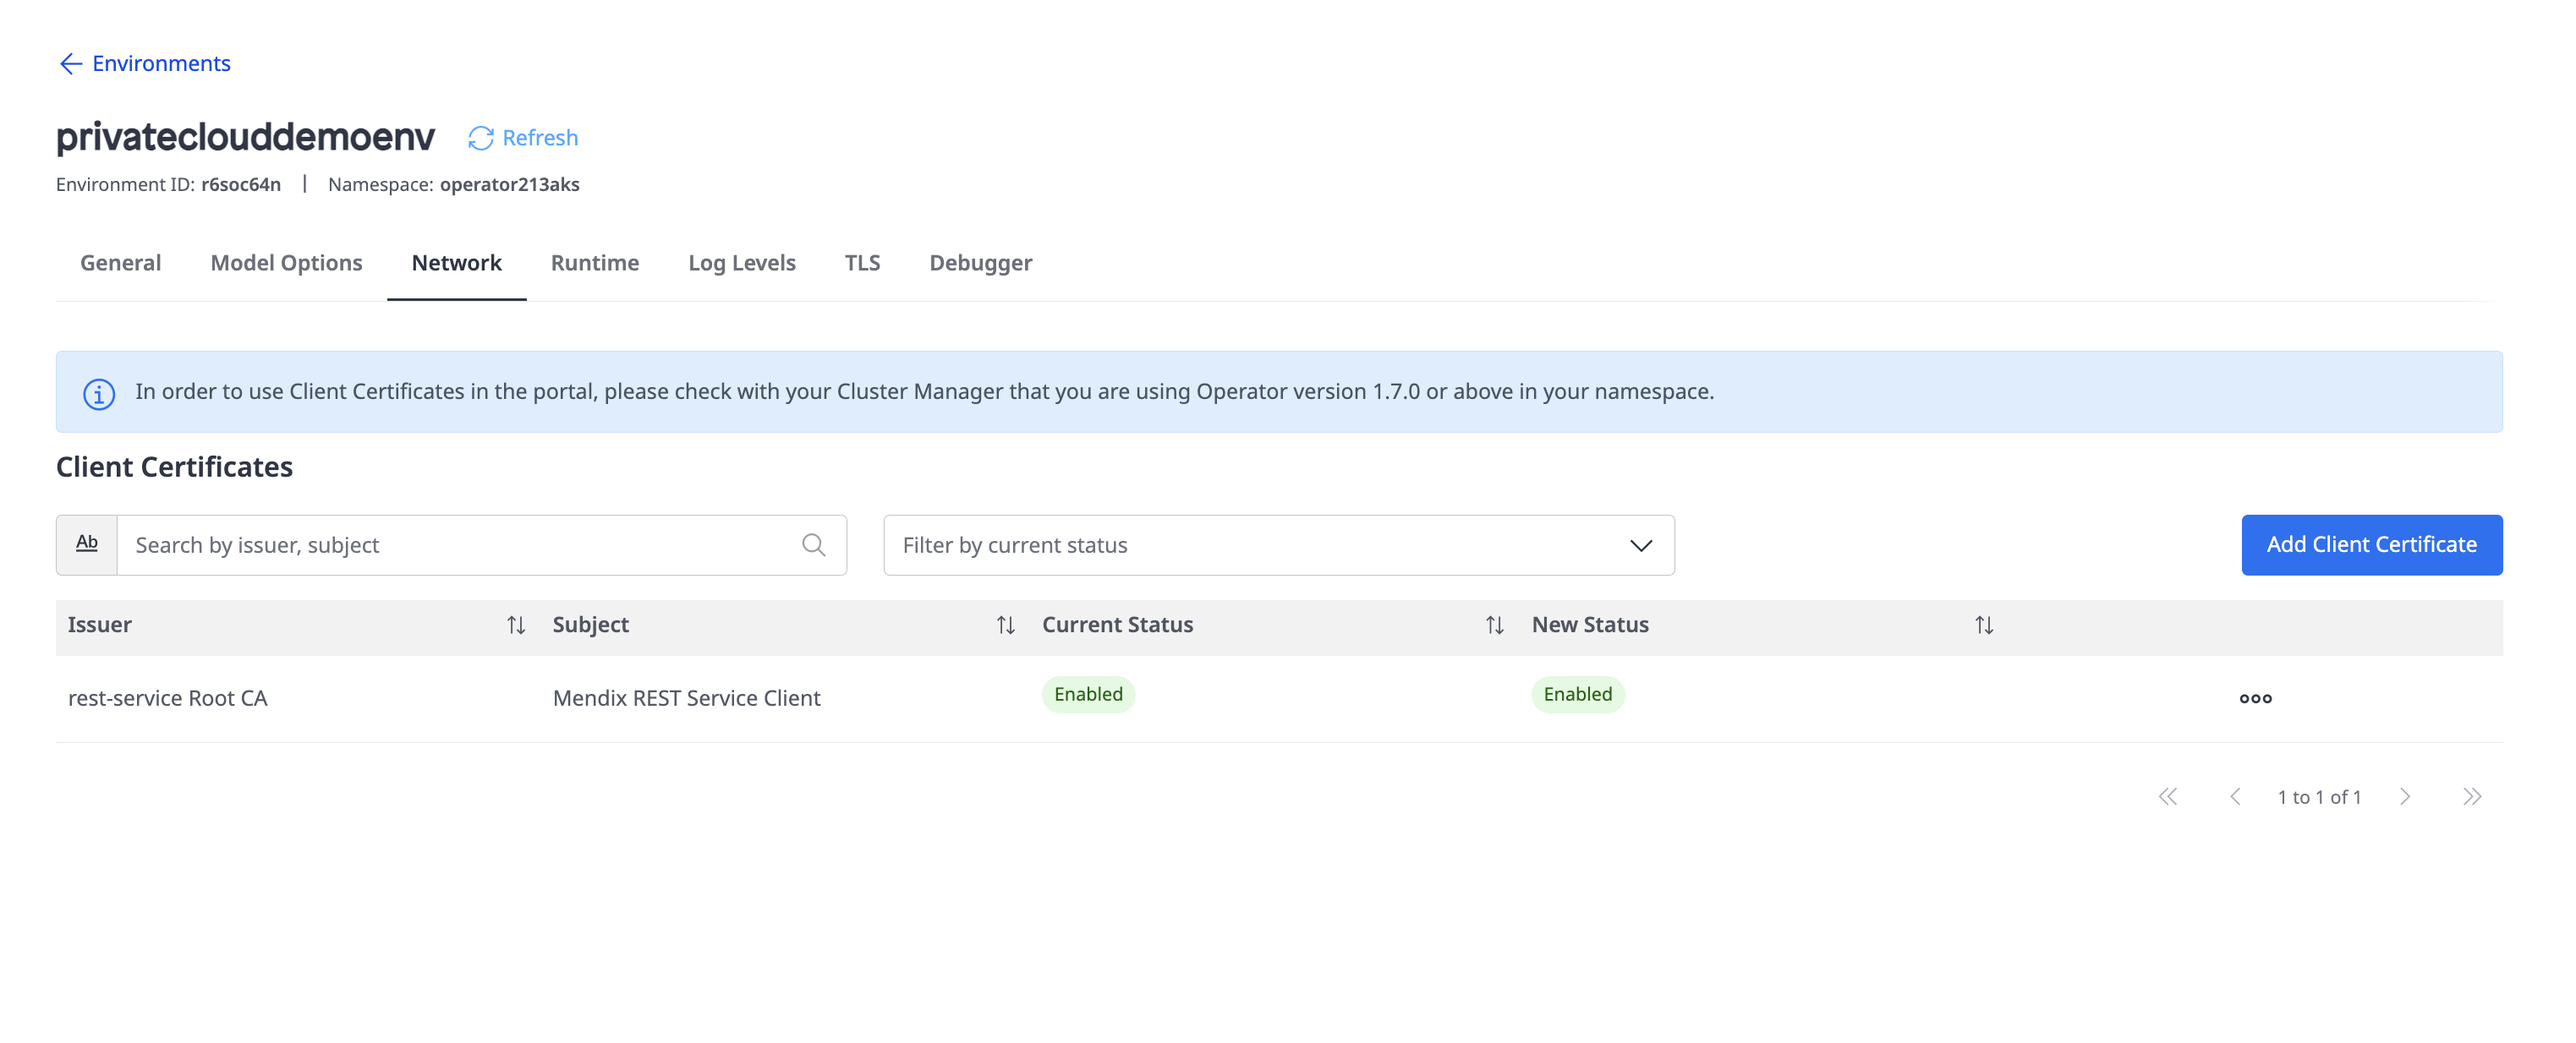
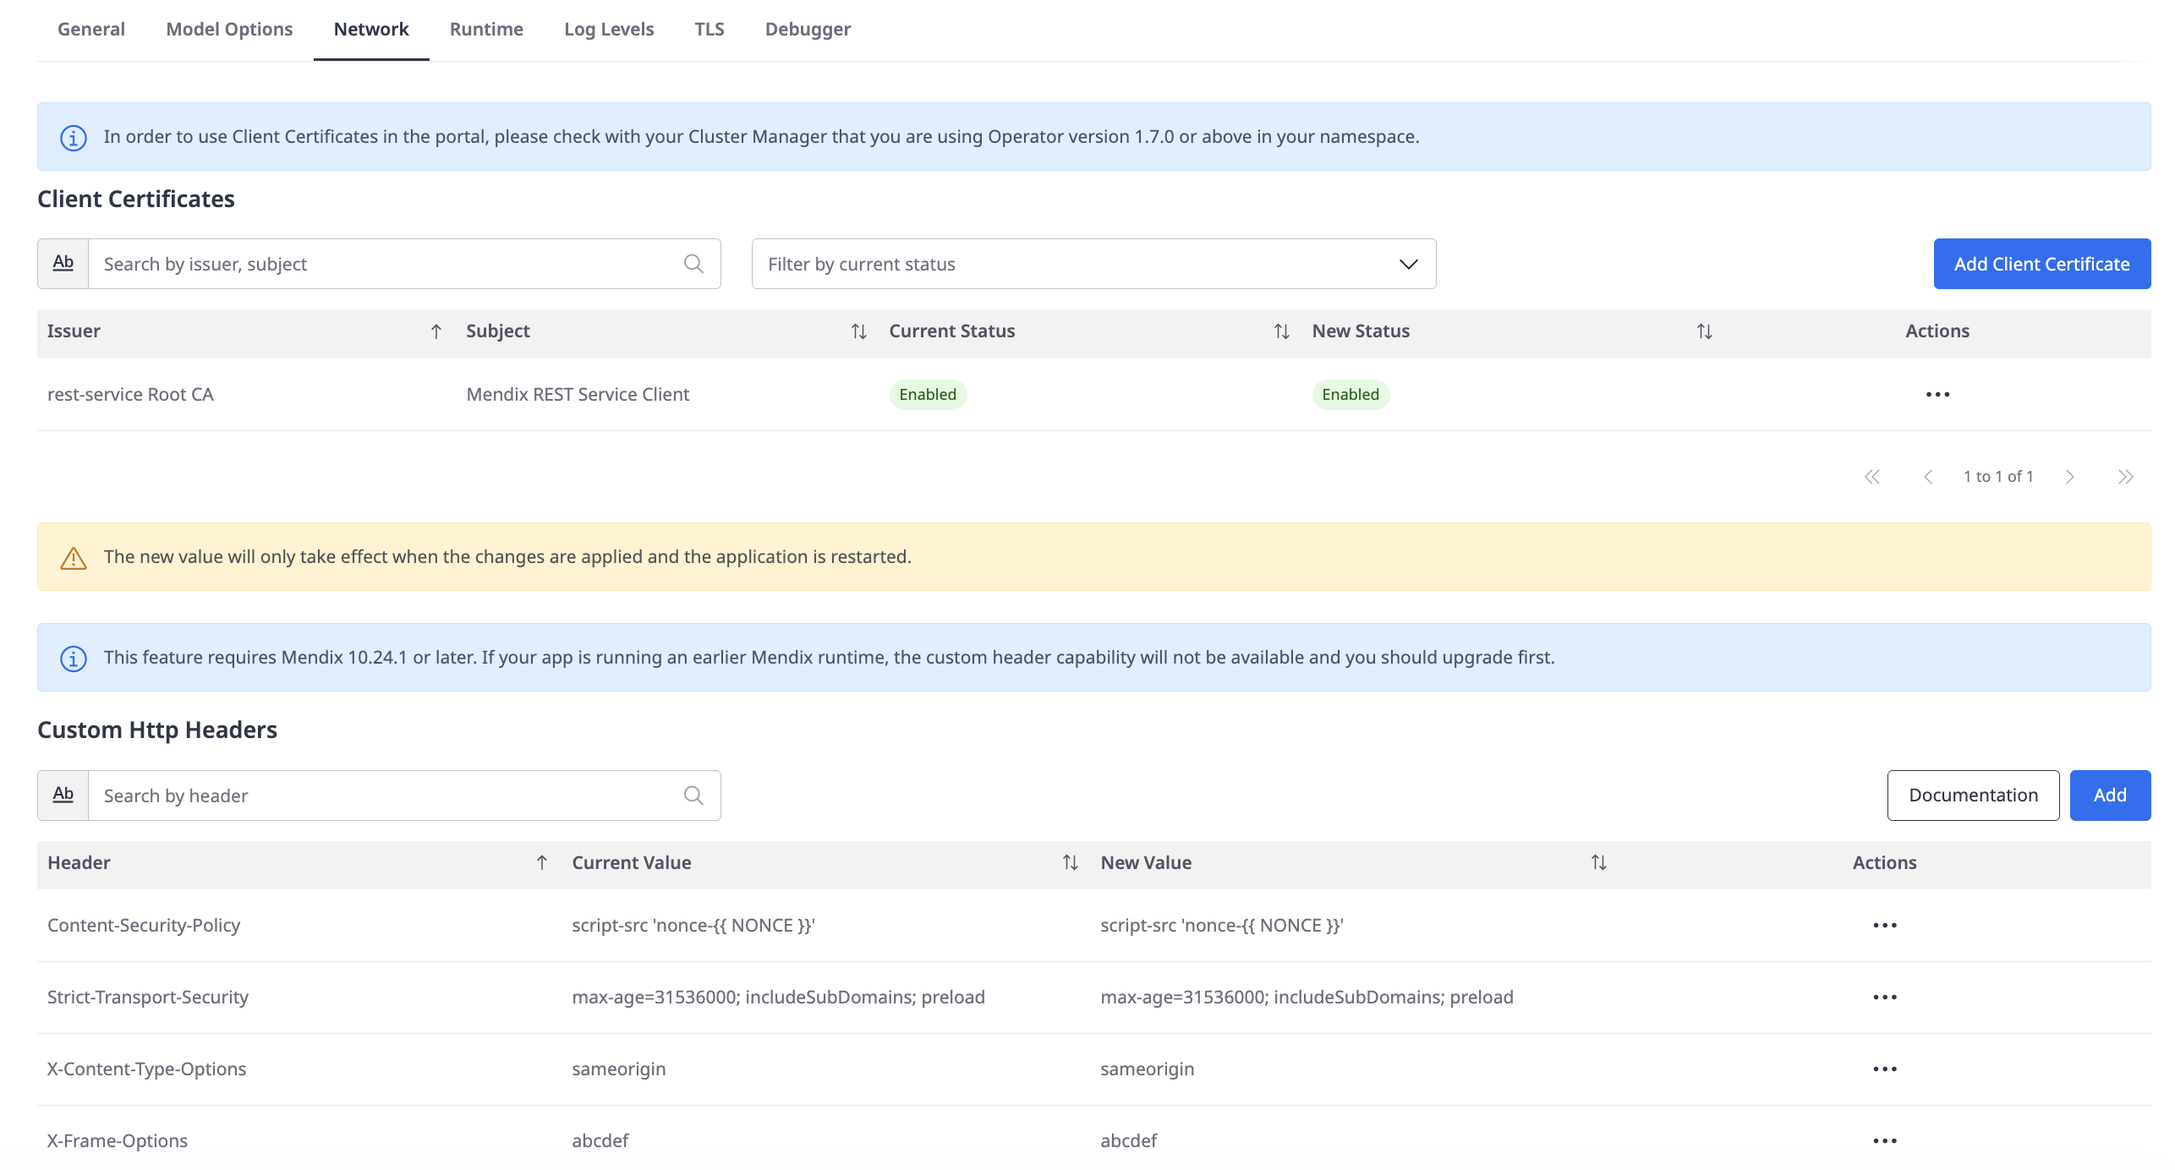
Added changes for private cloud portal release 2.23.0

diff --git a/content/en/docs/deployment/private-cloud/private-cloud-cluster/_index.md b/content/en/docs/deployment/private-cloud/private-cloud-cluster/_index.md
@@ -1290,7 +1290,15 @@ You can configure the runtime metrics for the environment in the **Runtime** sec
 
 You can also configure the pod labels for the environment in the **Labels** section. For more information, see [App Pod Labels](#pod-labels).
 
-Starting from Operator 2.20.0 onwards, it is now also possible to set the deployment strategy for an environment. This allows you to update an app with reduced downtime by performing a rolling update. To use this feature, you must enable the **Reduced App Downtime Strategy** option.  For more information, see [Deployment Strategy](/developerportal/deploy/private-cloud-reduced-downtime/)
+Starting from Operator 2.20.0 onwards, it is now also possible to set the deployment strategy for an environment. This allows you to update an app with reduced downtime by performing a rolling update. To use this feature, you must enable the **Custom Options** under Reduced downtime options.  
+The deployment strategy now includes the following options under the **Deployment Strategy Options** subheader:
+- **Max Surge**: Specifies the maximum number of Pods that can be created above the desired number of Pods during a rolling update.
+- **Max Unavailable**: Specifies the maximum number of Pods that can be unavailable during a rolling update.
+
+A new **Pod Disruption Budget** subheader has also been added, which includes:
+- **Min Available**: Specifies the minimum number of Pods that must be available at any time. This can be set as a percentage.
+- **Max Unavailable**: Specifies the maximum number of Pods that can be unavailable at any time. This can also be set as a percentage. 
+For more information, see [Deployment Strategy](/developerportal/deploy/private-cloud-reduced-downtime/)
 
 {{< figure src="/attachments/deployment/private-cloud/private-cloud-cluster/deploymentStrategy.png" class="no-border" >}}
 

diff --git a/content/en/docs/deployment/private-cloud/private-cloud-deploy.md b/content/en/docs/deployment/private-cloud/private-cloud-deploy.md
@@ -597,7 +597,8 @@ If you change the data type and value in the .mpr file, the changes are visible 
 
 ### Network Tab
 
-On the Network tab, you add client certificates (in the PKCS12 format) or certificate authorities (in the PEM format) for outgoing connections. These will be used when your application initiates SSL/TLS connections. This works in the same way as the Network tab for deployments to Mendix Cloud. For more details on these, see the [Network Tab](/developerportal/deploy/environments-details/#network-tab) section of *Environment Details*.
+On the Network tab, you add client certificates (in the PKCS12 format) or certificate authorities (in the PEM format) for outgoing connections. These will be used when your application initiates SSL/TLS connections. This works in the same way as the Network tab for deployments to Mendix Cloud. 
+Starting from Mendix 10.24.1, the Mendix Runtime can set Custom Http Headers natively, without relying on an Ingress controller. For more details on these, see the [Network Tab](/developerportal/deploy/environments-details/#network-tab) section of *Environment Details*.
 
 {{< figure src="/attachments/deployment/private-cloud/private-cloud-deploy/network-tab.png" class="no-border" >}}
 

diff --git a/content/en/docs/releasenotes/deployment/mendix-azure.md b/content/en/docs/releasenotes/deployment/mendix-azure.md
@@ -10,6 +10,13 @@ These release notes cover changes to deployment to [Mendix on Azure](/developerp
 
 For information on the current status of Mendix deployment, see [Mendix Status](https://status.mendix.com/).
 
+### Release date: November 27, 2025
+
+* Operator, Agent, Build, Sidecars and NGINX logs are now directly accessible within Grafana for monitoring and troubleshooting.
+* We can now easily set up and manage custom Certificate Authorities (CAs) directly through the Mendix on Azure portal, simplifying secure certificate management.
+*  We have introduced a new Infrastructure Redundancy configuration option, available during cluster initialization and updates, to enhance resilience and provide clearer control over VM, Storage, and Database redundancy.
+* We have fixed the issue where Terraform apply fails when read replica is enabled.
+
 ### Release date: November 6, 2025
 
 * We have resolved an issue where the AKS Node VM Size field sometimes appeared empty if the corresponding Microsoft endpoint was unavailable. Now, in such cases, the field will not be available for selection, and the value chosen during the cluster's initialization will be automatically considered.

diff --git a/content/en/docs/releasenotes/deployment/mendix-for-private-cloud.md b/content/en/docs/releasenotes/deployment/mendix-for-private-cloud.md
@@ -12,6 +12,15 @@ For information on the current status of deployment to Mendix on Kubernetes and 
 
 ## 2025
 
+### November 27, 2025
+
+#### Portal Improvements
+
+* We have enhanced the "Apps" page under the Namespace Overview page to display the technical contact's name and email address next to each application. This makes it easier to find the technical person for inquiries or support.
+* We have added deep links for application url in Environment Overview page, allowing for quicker, direct navigation to application page. 
+* We have added Enhanced Deployment Strategy UI within the deployment options, featuring new "Min Available" and "Max Unavailable" fields for more precise control over your application's availability.
+* Now we can directly configure HTTP headers via a new key/value UI in the Network tab to manage headers like Content-Security-Policy within Mendix Runtime and reduce ingress reliance. It supports Mendix 10.24.1+ onwards.
+
 ### November 7, 2025
 
 #### Portal Hotfix
